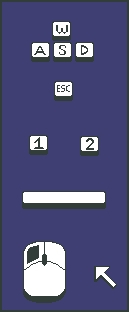
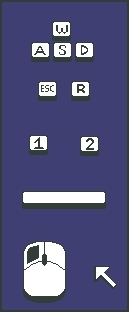
Update Dashboard & Description component

Changed region(s): [[0.2791, 0.2596, 0.7132, 0.3462]]

diff --git a/src/component/Description.js b/src/component/Description.js
@@ -3,13 +3,19 @@ import Controls from "../img/GameControls.jpg";
 
 const Description = () => {
   return (
-    <div className="PressStart2P" style={{ display: "flex", flexDirection: "column" }}>
+    <div
+      className="PressStart2P"
+      style={{ display: "flex", flexDirection: "column" }}
+    >
       <div>
         <h3>Released: August 3, 2023</h3>
         <h3>Category: Action/Adventure, Fantasy, Bullet Hell</h3>
         <h3>Game Description</h3>
         <p>
-          Journey to the lands of Gaoryn and find the cause of the monster invasion across the land. You play as Signus, the current caretaker of the Temple of the Sun. With his trusted Sword and Bow, battle various fantasy creature like slimes, minotaurs, etc.
+          Journey to the lands of Gaoryn and find the cause of the monster
+          invasion across the land. You play as Signus, the current caretaker of
+          the Temple of the Sun. With his trusted Sword and Bow, battle various
+          fantasy creature like slimes, minotaurs, etc.
         </p>
       </div>
       <h3>How to Play</h3>
@@ -31,31 +37,19 @@ const Description = () => {
           alt="gamecontrols"
         />
         <div style={{ display: "flex", flexDirection: "column" }}>
+          <h4>
+            This game uses Keyboard and Mouse haptics. It is meant to be a Web
+            Browser game.
+          </h4>
           <p>
-            This game uses Keyboard and Mouse haptics. It is meant to be a Web Browser game.
-
-            Keyboard Controls: Movement
-            W: Up
-            A: Left
-            S: Down
-            D: Right
-
-            R: Talk to Signs & NPCs
-
-            Switch Active Weapon:
-            1: Sword
-            2: Bow
-
-            Space Bar: Dash (With Movement Keys)
-
-            Esc: Pause Game
+            Keyboard Controls: Movement W: Up A: Left S: Down D: Right Switch
+            Active Weapon: 1: Sword 2: Bow Space Bar:Dash (With Movement Keys)
+            Esc: Pause Game R: Talk to Signs & NPCs
           </p>
           <p>
-            Mouse controls:
-
-            Right Click: Attack
-            Mouse Cursor: Position Left or Right of the player with the Sword for directional Swing.
-            Aim Omnidirectionally using the Mouse Cursor.
+            Mouse controls: Right Click: Attack Mouse Cursor: Position Left or
+            Right of the player with the Sword for directional Swing. Aim
+            Omnidirectionally using the Mouse Cursor.
           </p>
         </div>
       </div>

diff --git a/src/component/Navigation.js b/src/component/Navigation.js
@@ -57,7 +57,6 @@ const Navigation = () => {
   };
 
   return (
-
     <AppBar position="relative" className="navBar">
       <Container>
         <Toolbar>
@@ -69,11 +68,7 @@ const Navigation = () => {
             />
           )}
           {storedUsername && (
-            <Typography
-              variant="h6"
-              style={{ flexGrow: "1", color: "white" }}
-              
-            >
+            <Typography variant="h6" style={{ flexGrow: "1", color: "white" }}>
               {storedUsername}
             </Typography>
           )}
@@ -101,7 +96,6 @@ const Navigation = () => {
             onClose={handleMenuClose}
           >
             {storedUsername ? (
-              // If the user is logged in, show the Home and Logout options
               <>
                 <MenuItem>
                   <Link
@@ -112,10 +106,18 @@ const Navigation = () => {
                     Home
                   </Link>
                 </MenuItem>
+                <MenuItem>
+                  <Link
+                    to="/dashboard"
+                    style={{ textDecoration: "none", color: "inherit" }}
+                    onClick={handleMenuClose}
+                  >
+                    Dashboard
+                  </Link>
+                </MenuItem>
                 <MenuItem onClick={logout}>Logout</MenuItem>
               </>
             ) : (
-              // If the user is not logged in, show the Home, Login, and Register options
               <>
                 <MenuItem>
                   <Link

diff --git a/src/component/Social.js b/src/component/Social.js
@@ -1,5 +1,5 @@
 import React from "react";
-import { AppBar, Container, Stack } from "@mui/material";
+import { AppBar, Container } from "@mui/material";
 import GitHubIcon from "@mui/icons-material/GitHub";
 import LinkedInIcon from "@mui/icons-material/LinkedIn";
 
@@ -7,9 +7,9 @@ const Social = () => {
   return (
     <AppBar position="relative" className="footer">
       <Container>
-        <div className="social-icons"> {/* Add the social-icons class */}
-          <GitHubIcon className="social-icon" /> {/* Add the social-icon class */}
-          <LinkedInIcon className="social-icon" /> {/* Add the social-icon class */}
+        <div className="social-icons">
+          <GitHubIcon className="social-icon" />
+          <LinkedInIcon className="social-icon" />
         </div>
       </Container>
     </AppBar>

diff --git a/src/App.css b/src/App.css
@@ -3,7 +3,6 @@ body {
   margin: 0;
   padding: 0;
   background-color: #f7e7ce;
-
 }
 .appPage {
   /* background-image: url("img/gaoryn_screenshot1.jpg"); */
@@ -21,7 +20,8 @@ body {
   display: flex;
 }
 .navBar {
-background-image: url("img/background2.jpg");}
+  background-image: url("img/background2.jpg");
+}
 .footer {
   background-image: url("img/background2.jpg");
 }
@@ -57,9 +57,6 @@ background-image: url("img/background2.jpg");}
   font-family: PressStart2P;
   font-size: small;
 }
-
-
-
 
 /* Comment CSS */
 .comments {

diff --git a/src/component/Dashboard.js b/src/component/Dashboard.js
@@ -54,7 +54,7 @@ const Dashboard = () => {
 
   return (
     <div
-    className="PressStart2P"
+      className="PressStart2P"
       style={{
         display: "flex",
         justifyContent: "center",
